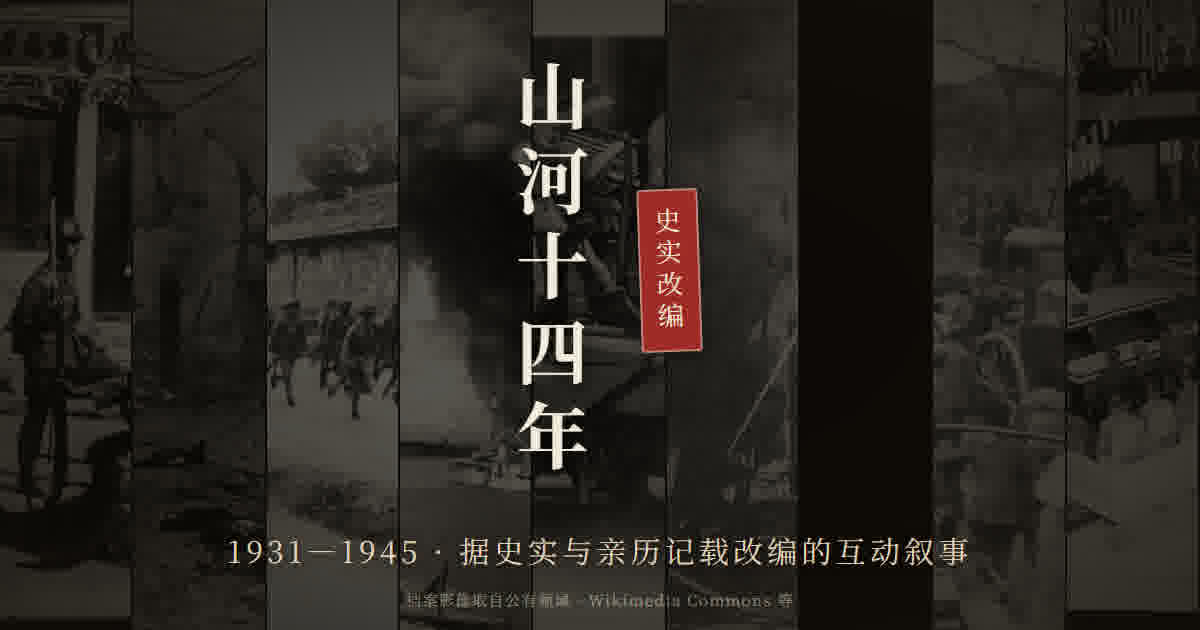
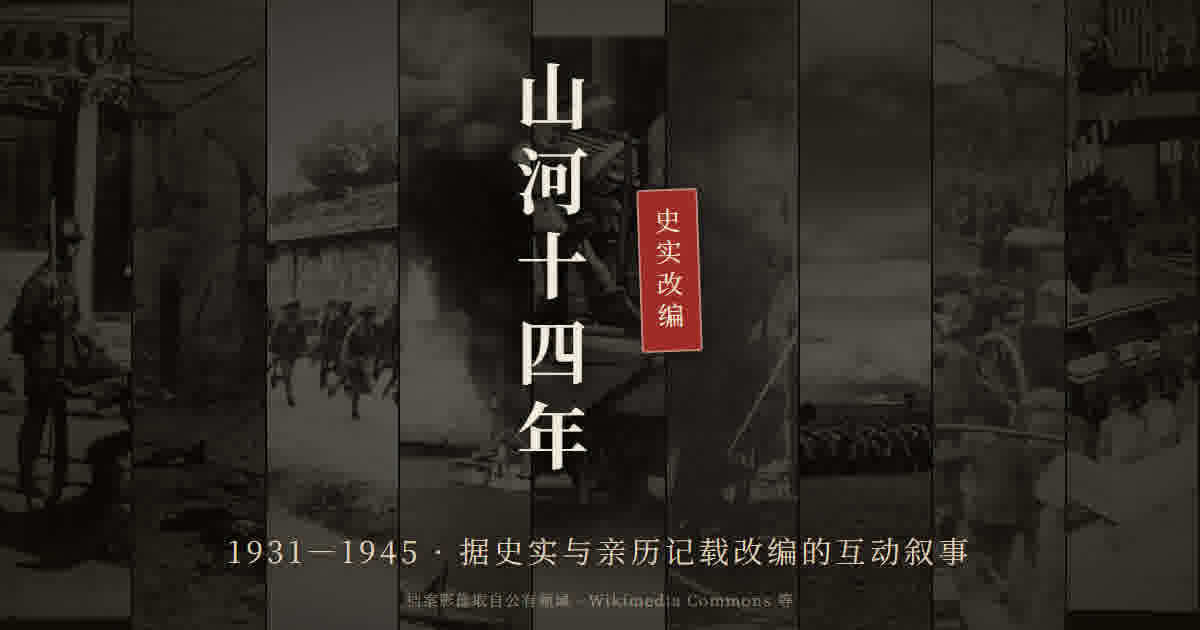
feat(ch10): 章封上1944民工拉碾照+集市拍上图（b1x留版画防年代违和），og 卡同步

Changed region(s): [[0.6475, 0.0, 0.8017, 0.7238], [0.6475, 0.754, 0.8017, 0.9048], [0.6475, 0.6937, 0.6783, 0.7238]]

diff --git a/src/stories/shanhe/ch10.ts b/src/stories/shanhe/ch10.ts
@@ -11,7 +11,8 @@ export const ch10: Chapter = {
   epigraph: '饿着肚纳粮，卖了田纳粮。——《大公报》社评《看重庆，念中原！》（1943）',
   historyNote:
     '1942 年河南大旱继以蝗灾，受灾三千万人，死亡近三百万。1943 年 1 月《大公报》记者张高峰自叶县寄出长篇通讯《饥饿的河南》，总编辑王芸生改题《豫灾实录》，2 月 1 日刊于重庆版，次日配发社评《看重庆，念中原！》，报纸旋被勒令停刊三日，张高峰在豫被捕；同年二三月间，美国《时代》周刊记者赴豫采访，自洛阳发出电报绕过新闻检查，3 月 22 日报道刊出。本章据《大公报》史料及当事报人回忆。',
-  artCredit: '本章有意不配影像——当年的灾情影像或被封锁、或版权未清，影像的缺席本身即是这段历史的一部分。',
+  art: 'ch10.jpg',
+  artCredit: '中国民工拉石碾平整机场跑道，1944 年 · 美国陆军 · Wikimedia Commons · 公有领域（1944 年中国机场工地，非河南实拍）',
   entry: 'b1',
   beats: [
     {
@@ -41,6 +42,7 @@ export const ch10: Chapter = {
     },
     {
       id: 'b2x',
+      photo: { file: 'ch10-c.jpg', credit: '中国内地（湖南）窄巷集市，约 1917–1923 年 · 佚名／国际传教摄影档案（USC） · Wikimedia Commons · 公有领域（非中原/非该年代实拍）', url: 'https://commons.wikimedia.org/wiki/File:Narrow_market_street,_China,_ca.1917-1923_(IMP-YDS-RG224-OV1-0000-0037).jpg' },
       art: 'zy-chest',
       source: '张高峰《豫灾实录》所记灾中市况：牲口贱卖、粮比肉贵、逼卖田地——本拍止于集市白描',
       narrative:

diff --git a/public/covers/CREDITS.md b/public/covers/CREDITS.md
@@ -126,9 +126,17 @@
 - 第二轮扫荡新增（见 `scripts/_photos2_ch09-12.json`）：
   - `ch09-c.jpg`（拍 b2 · event） · [文件页](https://commons.wikimedia.org/wiki/File:Japanese_soldiers_aboard_USS_Wake_(PR-3)_at_Shanghai,_China,_8_December_1941_(NH_96568).jpg) · 许可：`{{PD-USGov-Military-Navy}}`（美国政府作品，公有领域） · 作者/来源：美国海军历史与遗产司令部（NHHC）NH 96568 · 描述：1941年12月8日太平洋战争首日，日本海军陆战队在上海俘获美军炮舰"威克号"——正是本拍"租界完了，八日那天早上，桥上过不去人了"所记那个上海陷落的清晨。源图 5587×4436，缩存 1920×1524。
 
-## ch10 · 1942 河南饥荒 —（设计决定：本章不配影像）
-- 本章有意不配影像：当年的灾情影像或被封锁、或版权未清，影像的缺席本身即是这段历史的一部分。
-- 第二轮专项攻坚章封（2026-07-03 复查）仍留白：① 优先目标《大公报》1943-02-01《豫灾实录》／社评《看重庆，念中原！》版面扫描——Commons 全文检索与「Ta Kung Pao 1943 / 大公报 豫灾」均无该版面转存；② 克制影像（逃荒行列／干裂田地／蝗灾／陇海线扒车）——「Henan famine 1942/1943」分类为空，相关检索仅命中书籍 PDF，无独立照片；存世名作多系 Forman／White 摄影（版权存疑，已排除）。三重门槛（出处可信＋许可清白＋克制取景）无一满足者，遵"查不实宁缺"，章封与正文均保持留白。
+## ch10 · 1942 河南饥荒（第三轮：主题放宽后配图，核验日期 2026-07-03）
+- 缘起：1942 河南灾情本身的存世影像三重门槛（出处可信＋许可清白＋克制取景禁尸体禁惨状）无一满足者——「Henan famine 1942/1943」分类为空，名作多系 Forman／White 摄影（版权存疑，已排除），Yellow River flood 存世大图多为日方战时宣传口径（「日军救助中国灾民」，语境不宜）。**经作者决定放宽主题**：不再强求「河南灾荒实拍」，改取 1940s 年代（不限年份）中国的真实历史照片，优先铁路／内地乡村／西行运输题材，credit 一律如实标注照片本身的年份、地点与「非该场景实拍」。逐张核验许可为公有领域。
+- 章封 `ch10.jpg`
+  - 文件名：`Hundreds of Chinese laborers pull a roller to smooth a runway for an airstrip.jpg`
+  - 文件页：https://commons.wikimedia.org/wiki/File:Hundreds_of_Chinese_laborers_pull_a_roller_to_smooth_a_runway_for_an_airstrip.jpg
+  - 许可：`{{PD-USGov-Army}}`（美军作品，公有领域）
+  - 作者/来源：美国陆军／《U.S. Army in World War II — Pictorial Record: The War Against Japan》p.433（ibiblio HyperWar 转录）
+  - 描述：1944 年，数百名中国民工在尘土飞扬的旷野上拉动巨型石碾、为轰炸日本本土的 B-29 机场平整跑道——一列望不到头的负重人影与漫天尘土，与本章「中原的尘土」、路上望不到头的西行人流同一副筋骨（1944 年中国机场工地实拍，非河南灾区）。源图 1495×1182。
+- 补充影像（正文逐拍配图，见 `scripts/_photos_ch10_final.json`）：
+  - `ch10-b.jpg`（拍 b1x · 陇海线扒车西逃） · [文件页](https://commons.wikimedia.org/wiki/File:Tramway_of_Machiapu_Station.jpg) · 许可：`{{PD-China}}`（公有领域，版权期满） · 作者/来源：佚名／英国国家档案馆殖民部照片集（Historical Photographs of China, HPC Bristol na04-18） · 描述：约 1900 年，北京马家堡车站的轨道电车与跨越铁道的站前人群——铁路小站与候车人潮的时代影像，对应本拍「铁路边的小站……站台上黑压压的全是人……车进站」（早期影像，非该场景/年代实拍；b1x 目标本即许「任何年份的 PD 大图」，以真实年份地点如实标注）。源图 974×703。
+  - `ch10-c.jpg`（拍 b2x · 集市白描） · [文件页](https://commons.wikimedia.org/wiki/File:Narrow_market_street,_China,_ca.1917-1923_(IMP-YDS-RG224-OV1-0000-0037).jpg) · 许可：`{{PD-old-70-1923}}`（公有领域，1923 年前刊行） · 作者/来源：佚名／国际传教摄影档案（International Mission Photography Archive，南加州大学数字图书馆），Rolland 与 Lottie Welch 夫妇在湖南所摄幻灯片 · 描述：约 1917–1923 年，中国内地（湖南）一条窄巷集市：竹篮货担、街边支起的摊桌、一人临街做活——内地乡镇集市的时代影像，对应本拍「离村子十几里有个集镇……摆出来卖的东西倒很齐全」（湖南实拍，非中原、非该年代）。原为手工上色幻灯片；源图 3524×4712，缩放至 1600px。
 
 ## ch11 · 1944 豫湘桂/湘桂大撤退
 - 文件名：`EvacuaciónDeLiuchowNoviembre1944.jpg`
@@ -155,8 +163,8 @@
 - 第二轮扫荡新增（见 `scripts/_photos2_ch09-12.json`）：
   - `ch12-e.jpg`（拍 b1x · atmosphere） · [文件页](https://commons.wikimedia.org/wiki/File:1945%E5%B9%B48%E6%9C%8816%E6%97%A5%E9%87%8D%E6%85%B6%E6%8E%83%E8%95%A9%E5%A0%B1.jpg) · 许可：`{{PD-scan-two}}`→`{{PD-CN}}`＋`{{PD-1996}}`（公有领域，中国逾期作品） · 作者/来源：重庆扫荡报社（转录自 1978《扫荡二十年——扫荡报的历史记录》p.13） · 描述：1945年8月16日重庆《扫荡报》头版，报道日本投降——对应本拍"报馆也……愿回北方的开路条""把十四年来写满的采访簿一本一本码在桌上，等着"（当日报纸版面·非场景照）。源图 897×580。
 
-## ch10 · 1942 河南饥荒（正文影像：设计决定不配图）
-- 本章正文亦不配影像，延续封面的设计决定：1942 河南灾情的存世影像或当年被封锁、或版权未清（Forman／White 等摄影多有版权疑点），逐张核验后无满足"来源可信＋许可清白＋克制取景（禁尸体禁惨状）"三重要求者。宁缺——影像的缺席本身即是这段历史的一部分。
+## ch10 · 1942 河南饥荒（正文影像：主题放宽后已配图）
+- 本章正文两插（b1x 陇海线扒车、b2x 集市白描）已于第三轮主题放宽后配上真实历史照片，明细见上方 ch10 章封节及 `scripts/_photos_ch10_final.json`。放宽主题（不限灾荒题材、不限年份，取 1940s 前后中国真实影像并如实标注）系作者决定；三张均逐张核验为公有领域、无尸体无惨状。
 
 ---
 